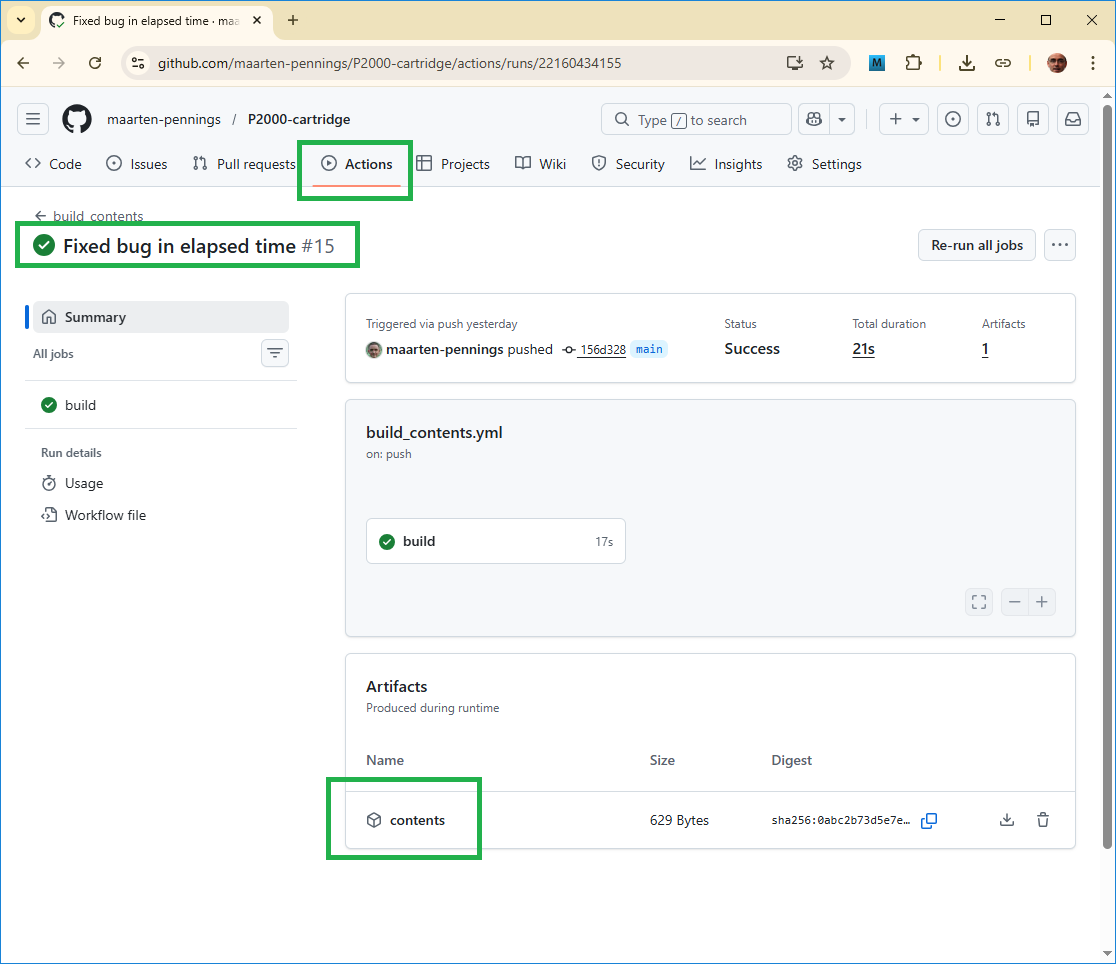
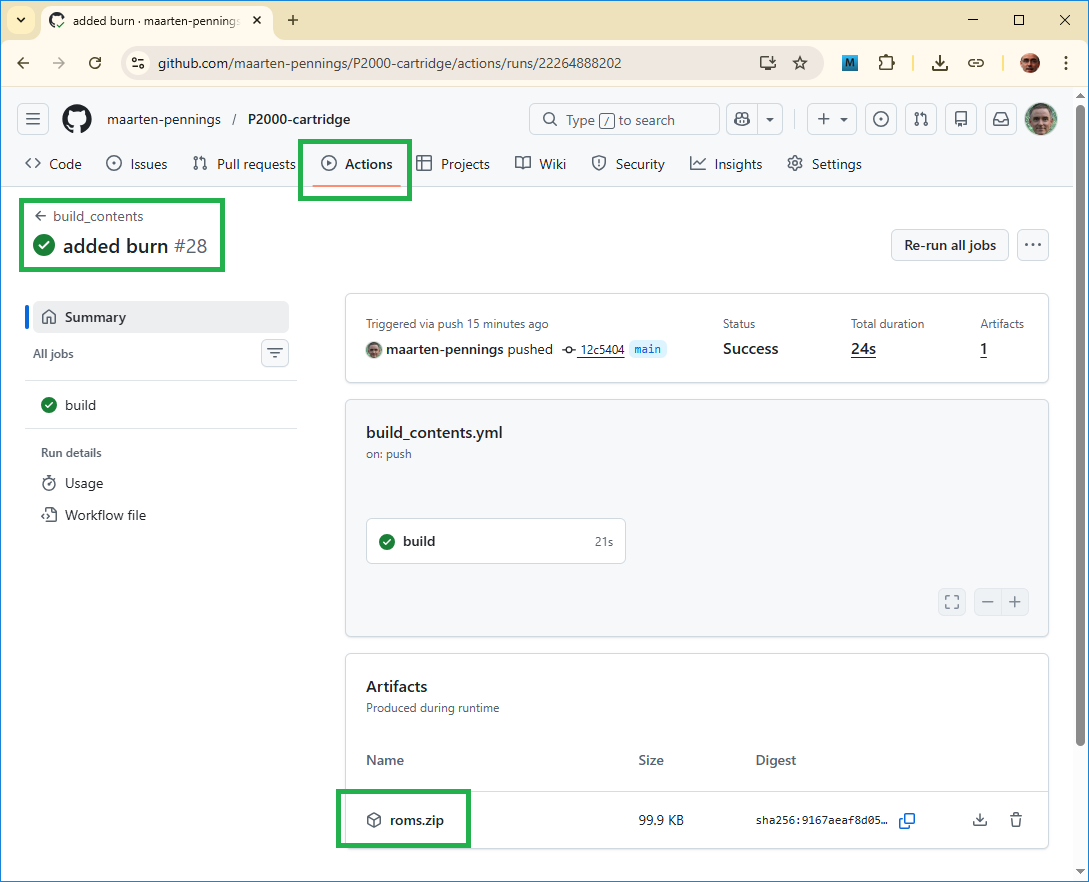
workflow

diff --git a/roms/readme.md b/roms/readme.md
@@ -72,7 +72,7 @@ There are some Python scripts to process bin files.
 ### Patch
 
 To compute the checksum for any P2000 ROM image, we have written a python program [`patch`](patch.py).
-This reads a bin file - for example ours as produced by the assembler - computes the checksum, and 
+This reads a `.bin` file - for example ours as produced by the assembler - computes the checksum, and 
 overwrites the associated bytes in the header.
 
 The `patch` script assumes the whole file should be part of the checksum. We have noticed that 
@@ -88,7 +88,7 @@ Typically they are shorter.
 Since we want to make a multi ROM, we need to concatenate 8 ROMs into one big one 
 and offer that to the flash programmer.
 
-The Python script [`pad`](pad.py) pads a binary (with 0xFF bytes) to be exactly 16 k bytes.
+The Python script [`pad`](pad.py) pads a `.bin` file with 0xFF bytes to be exactly 16 k bytes.
 It is your choice whether to first run `patch` and then `pad` or the other way around.
 The first one boots faster, in the second one, all padding bytes are 
 included in the checksum.
@@ -103,18 +103,23 @@ included in the checksum.
 ### AFP
 
 We have written a proprietary flasher, called the AFP or [Arduino Flash Programmer](../flasher).
-This device has a user interface via the virtual COM port (over USB).
+AFP is a tool made from an Arduino sketch and a Nano; this tool burns flash memories.
+AFP has a user interface via the virtual COM port (over USB).
 This interface is textual, there is a `read` command, an `erase` command and a `write` command.
 
-The Python [`afp`](afp.py) script converts a binary to a text file with `afp` commands.
-The text file can be sent via the virtual COM port into the AFP tool.
+The Python [`afp`](afp.py) script converts a `.bin` file to a `.afp` file, a text file with 
+commands for the AFP tool. The generated `.afp` file contains one `erase` command for the area 
+the binary is mapped to, and one `write` command with (up to) 16 k bytes of data for that area.
+
+The `.afp` file can be sent via the virtual COM port in the AFP tool.
 
 
 ### Burn
 
-For each ROM an .afp file is generated. This is a text file, which can be sent via the virtual COM port to the AFP tool.
-The problem when sending this .afp file to the AFP tool, the sender (the PC) is much faster than the micro controller 
-in the AFP tool. The result is that the AFP tool can't keep up, commands get scrambled or lost.
+For each ROM an `.afp` file is generated. This is a text file, which can be sent 
+via the virtual COM port to the AFP tool. The problem when sending such an `.afp` file 
+to the AFP tool is speed difference: the sender (the PC) is much faster than the micro controller 
+in the AFP tool (Nano). The result is that the AFP tool can't keep up, commands get scrambled or lost.
 
 One solution is to use a terminal tool that not only can sent text files, but which can also be
 throttled by setting a line delay (of say 10ms per line).
@@ -122,7 +127,7 @@ throttled by setting a line delay (of say 10ms per line).
 Another solution is to only send the next line when the previous is executed.
 The AFP tool signals this by sending a prompt (`>>`) back.
 
-The Python [`burn`](burn.py) script does just that. It sends .afp files to the AFP tool, line by line, 
+The Python [`burn`](burn.py) script does just that. It sends `.afp` files to the AFP tool, line by line, 
 each time waiting for the prompt.
 
 
@@ -130,18 +135,23 @@ each time waiting for the prompt.
 
 There is a [Makefile](Makefile) that compiles the [assembly source](src/contents.asm) to an
 unpatched bin file (`.ubin`). Next the Python `patch` script is run. It patches the 
-checksum an generates a `.bin` file. You can run this in the [emulator](https://github.com/p2000t/M2000).
+checksum and generates a `.bin` file. You can run this in the [emulator](https://github.com/p2000t/M2000).
 
-The makefile also generates the `.afp` script that can be sent to the 
-[Arduino Flash programmer](../flasher).
+The makefile also generates the `.afp` files that can be sent to the 
+[Arduino Flash programmer](../flasher). Not only for the `contents.bin`, but also
+for the other seven [stock roms](stockroms).
 
 I develop on Windows, but use WSL to install the Z80 assembler.
-This repo also has a workflow to do this every push, see the [workflow](../.github/workflows/build_contents.yml).
+This repo also has a workflow to do this every Git push, see the 
+[workflow](../.github/workflows/build_contents.yml).
 
 On the [GitHub actions dashboard](https://github.com/maarten-pennings/P2000-cartridge/actions) 
-you see every run. Click one, and on the next screen at the bottom, download the build results called "contents".
+you see every run. Click one, and on the next screen at the bottom, download the build results called "roms.zip".
 
 ![GitHub actions dashboard](../images/github-actions.png)
+
+It contains the compiled contents (.bin). It also contains the .afp files of all rom; from contents.bin,
+but also from all stock roms.
 
 (end)
 
